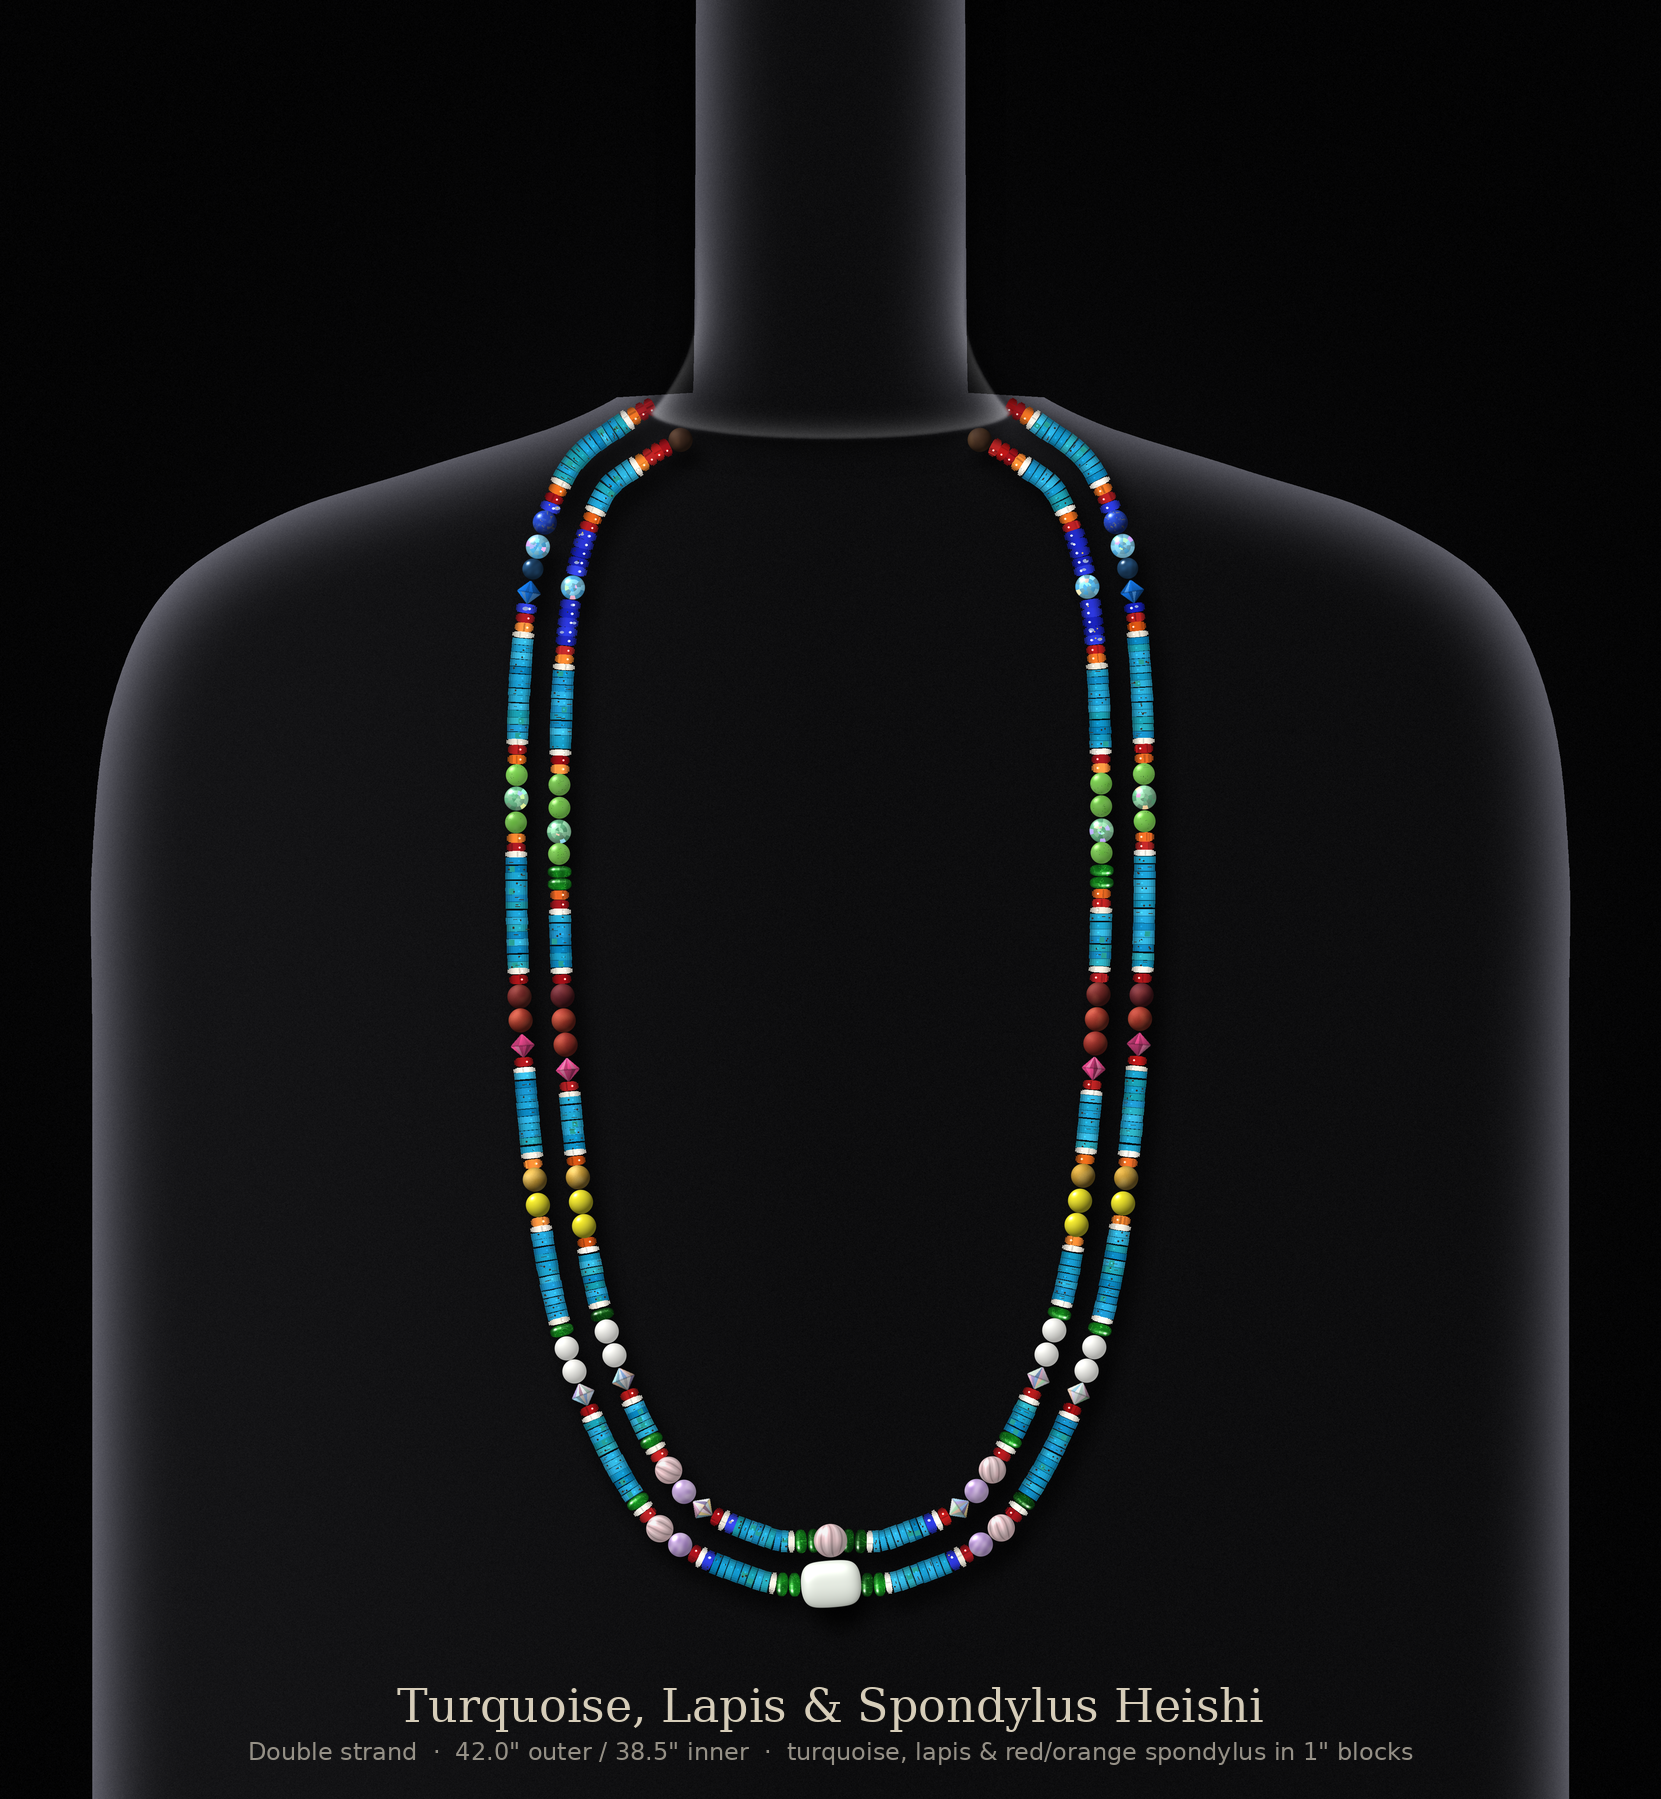
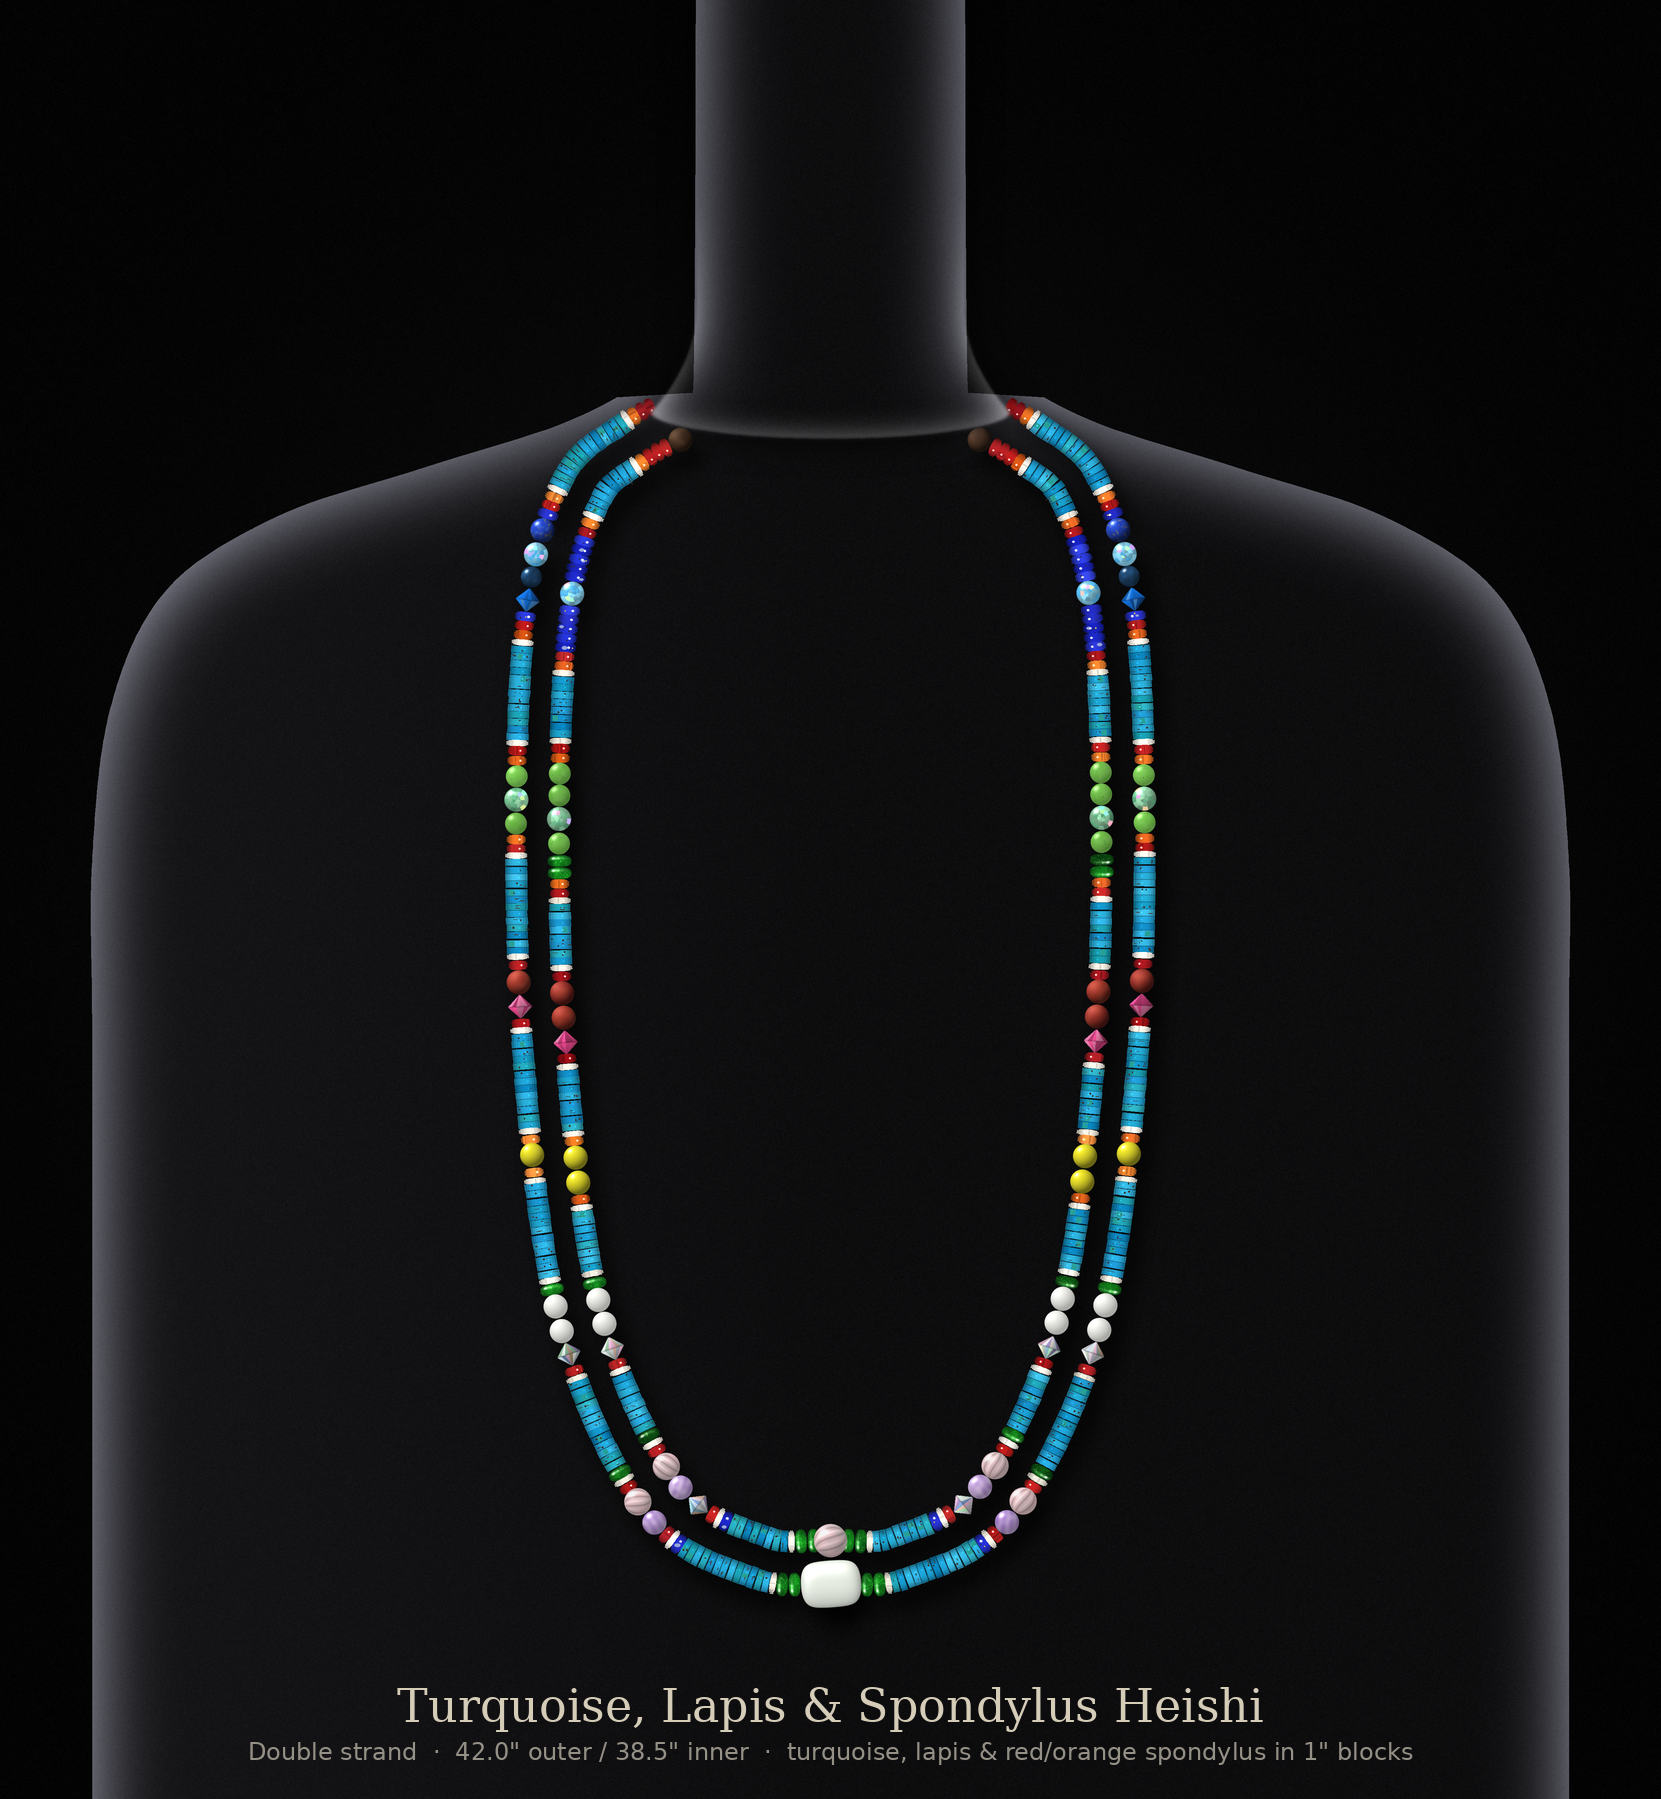
Version 5: remove yellow mookaite and darkest mookaite; turquoise runs evened out
Claude-Session: https://claude.ai/code/session_014be1vF4Rdf8sv9Si75Gudv

Changed region(s): [[0.307, 0.249, 0.7062, 0.9027]]

diff --git a/necklace/render_necklace.py b/necklace/render_necklace.py
@@ -1500,6 +1500,13 @@ if V4:
                     _a, _r = STN[8].index("amet"), STN[8].index("rq9")
                     STN[8][_a], STN[8][_r] = "rq9", "amet"
                 print(f"v5 strand {st} trim: cut {_cut:.1f} mm per side, centre run change {_cut + V5_EXT10:+.1f} mm")
+                # remove the yellow mookaite (yellow section) and the darkest mookaite (top of the mookaite section);
+                # their room and all the visible turquoise runs are evened out to one length per strand
+                STN[5].remove("mookred"); STN[6].remove("mookyel")
+                _vis = list(range(3, len(gaps)))
+                _tot = sum(gaps[i] for i in _vis) + SZ["mookred"] + SZ["mookyel"]
+                for i in _vis:
+                    gaps[i] = _tot / len(_vis)
                 print(f"v5 strand {st} swapped 7/8 gaps", [round(float(x), 1) for x in gaps])
             g = 0.0
             lap = LAP_BUDGET[st]
